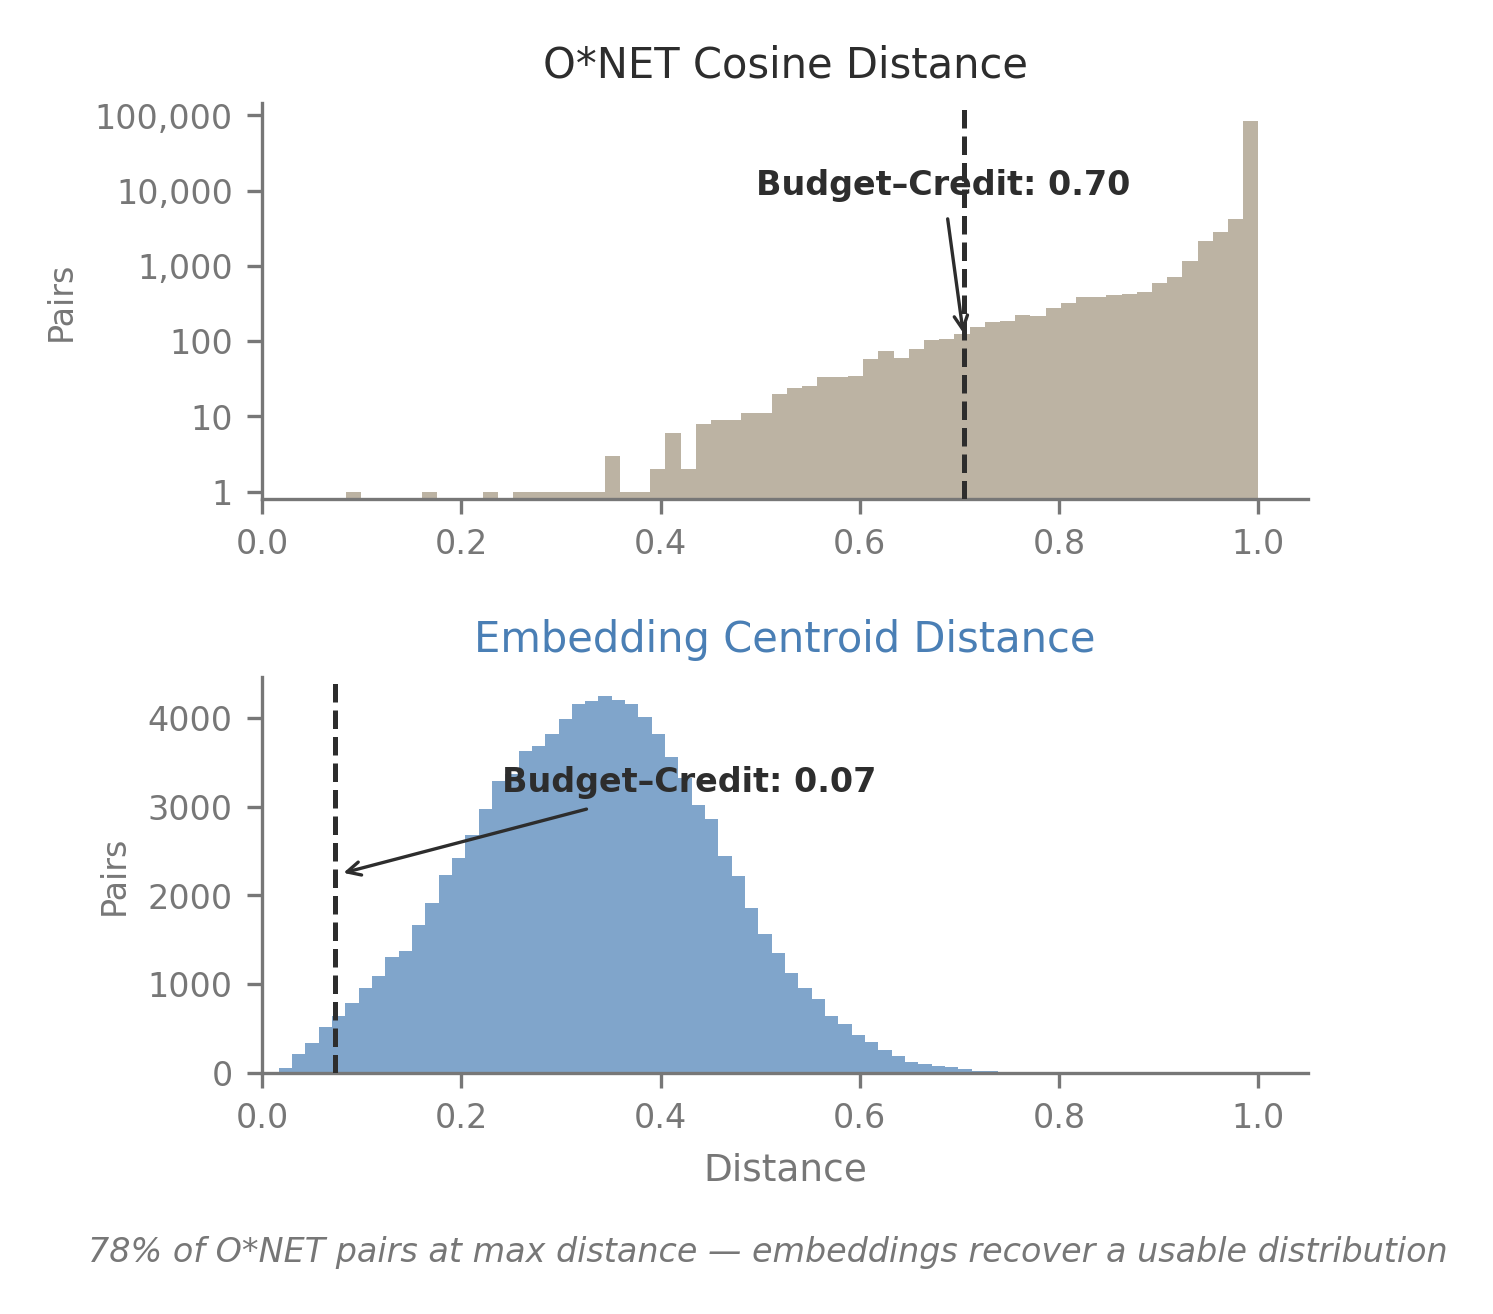
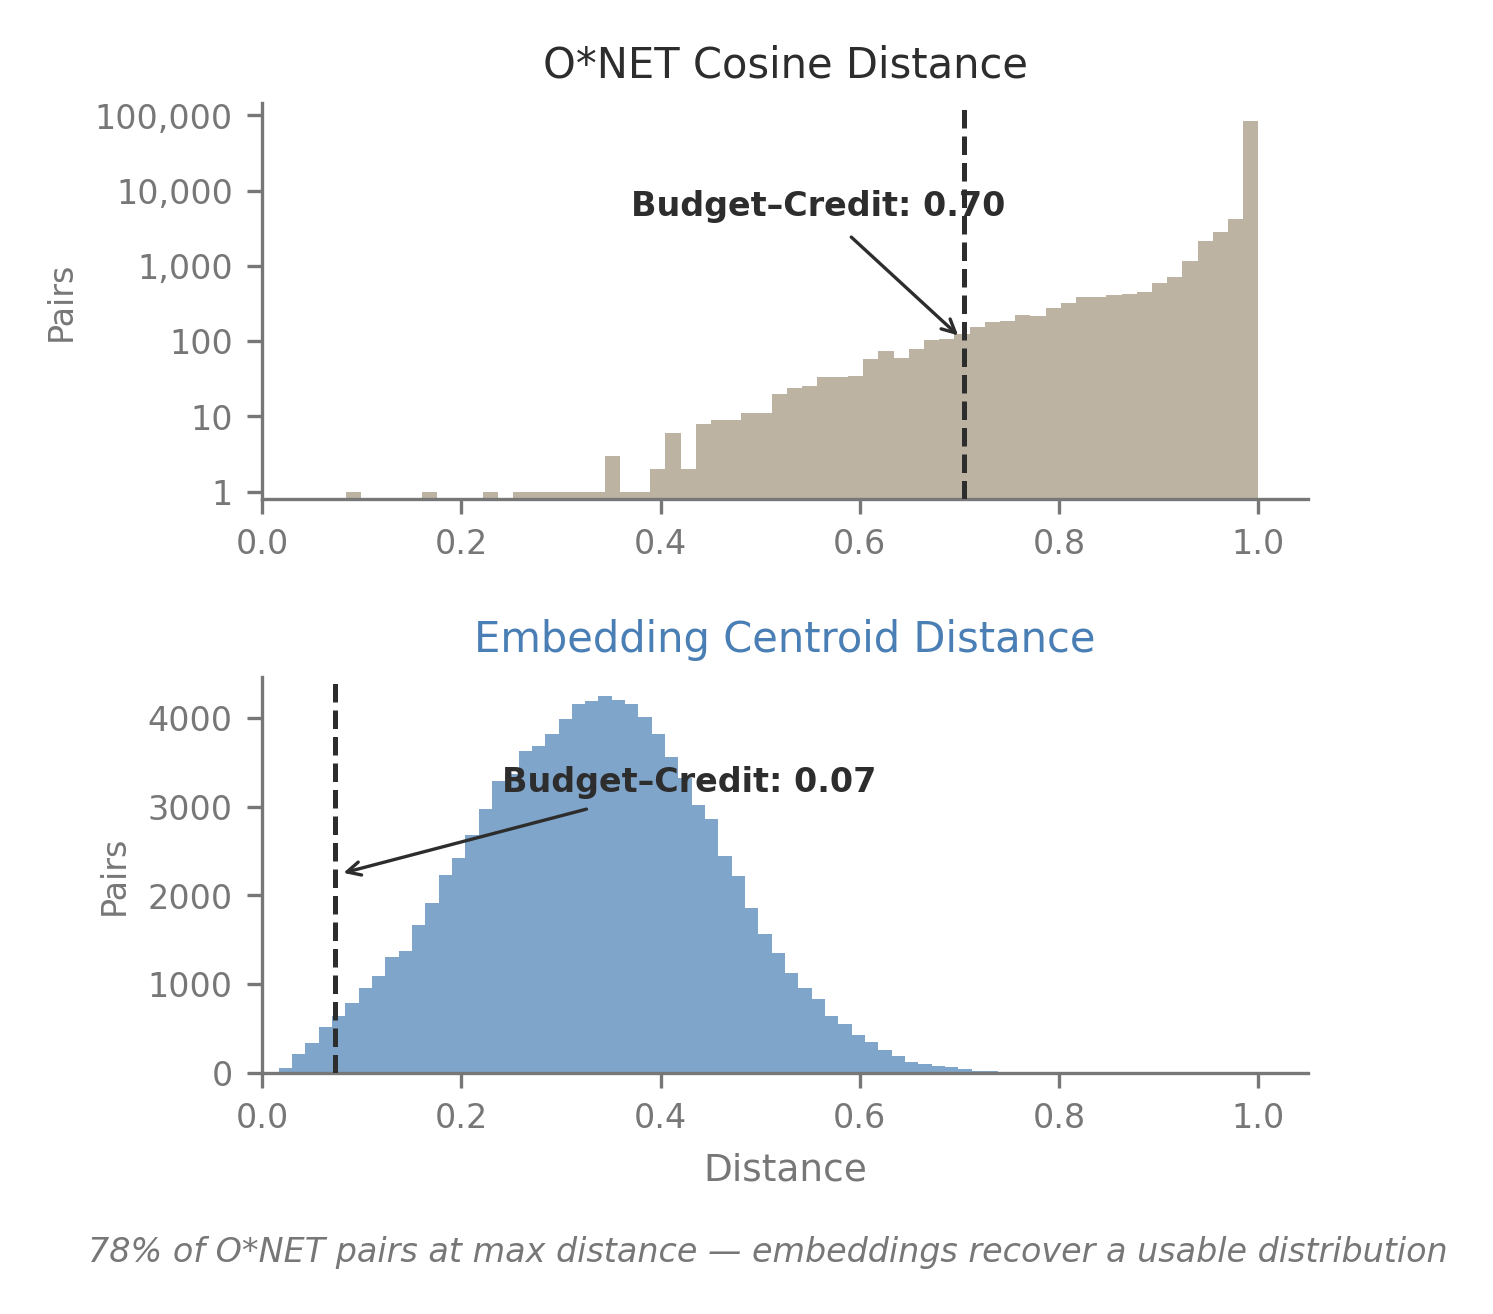
v0.7.9.4: Fig5 vertical separators, fig6 label offset

Changed region(s): [[0.4313, 0.1248, 0.7703, 0.1872], [0.6162, 0.2184, 0.647, 0.2496]]

diff --git a/figures/fig5_shared_dwas.py b/figures/fig5_shared_dwas.py
@@ -75,10 +75,12 @@ for dwa, y in zip(right_dwas, ys):
 # Shared DWAs (center column)
 for dwa, y in zip(shared_dwas, ys):
     draw_node(ax, 5.0, y, dwa, MID, width=2.8)
-    # Lines to Budget Analysts
-    ax.plot([3.1, 3.6], [y, y], color=GRID, lw=0.8, zorder=0)
-    # Lines to Credit Analysts
-    ax.plot([6.4, 6.9], [y, y], color=GRID, lw=0.8, zorder=0)
+
+# Vertical column separators
+sep_top = max(ys) + 0.5
+sep_bot = min(ys) - 0.5
+ax.plot([3.4, 3.4], [sep_bot, sep_top], color=GRID, lw=0.8, ls='--', zorder=0)
+ax.plot([6.6, 6.6], [sep_bot, sep_top], color=GRID, lw=0.8, ls='--', zorder=0)
 
 # Column headers
 ax.text(1.8, 8.2, 'unique', ha='center', va='center',

diff --git a/figures/fig6_embedding_similarity.py b/figures/fig6_embedding_similarity.py
@@ -48,7 +48,7 @@ ax1.axvline(d_onet_pair, color=DARK, linestyle='--', linewidth=1.2, zorder=3)
 fig.canvas.draw()
 ax1.annotate(f'Budget\u2013Credit: {d_onet_pair:.2f}',
              xy=(d_onet_pair, 100),
-             xytext=(-50, 35), textcoords='offset points',
+             xytext=(-80, 30), textcoords='offset points',
              fontsize=8, color=DARK, fontweight='bold',
              arrowprops=dict(arrowstyle='->', color=DARK, lw=0.8))
 ax1.set_title("O*NET Cosine Distance", fontsize=10, color=DARK, pad=6)
